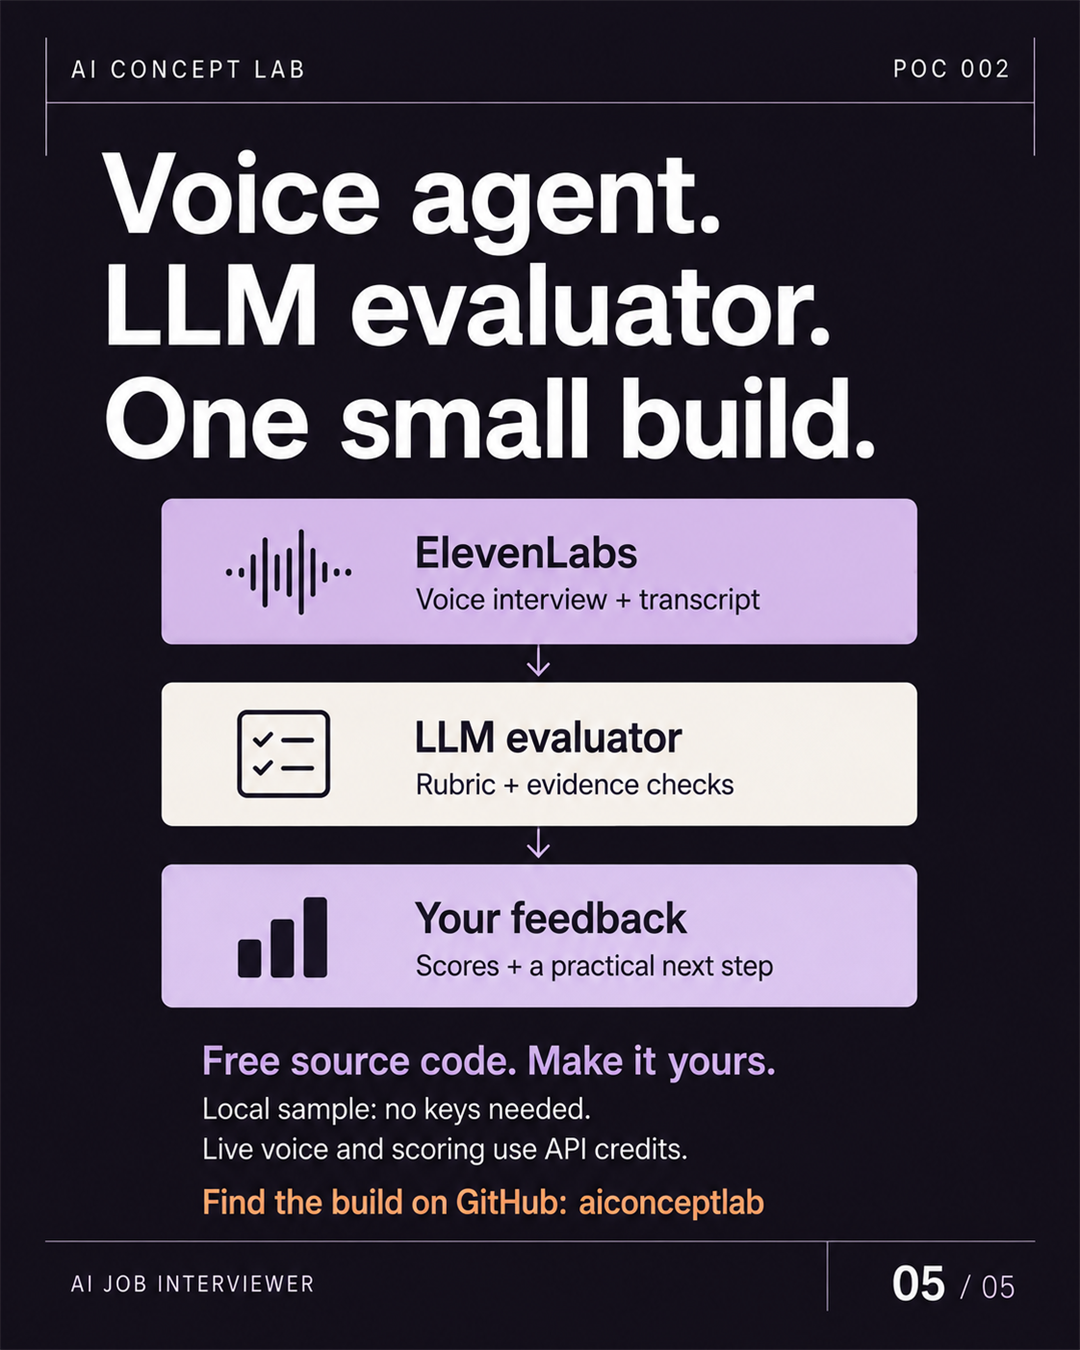
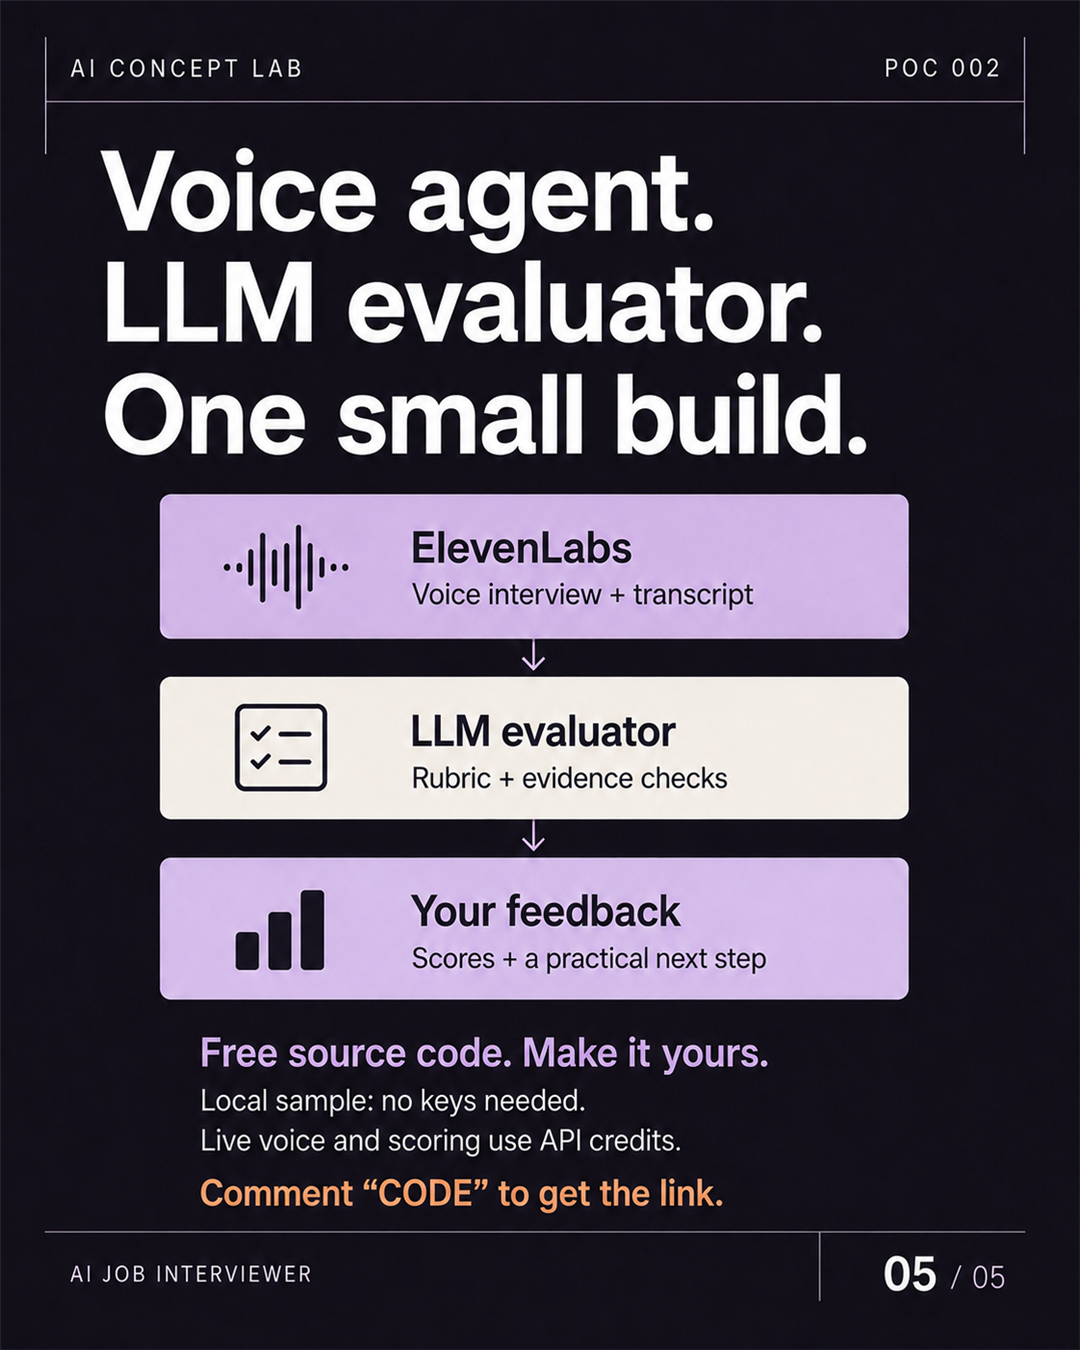
Update final carousel CTA to comment CODE

diff --git a/marketing/prompts.md b/marketing/prompts.md
@@ -20,7 +20,9 @@ Large top headline: "A score should" / "come with" / "a reason." Middle: large c
 Large top headline: "Make the next" / "answer better." Middle: large lilac feedback card with simple sparkle icon and label "ONE THING TO IMPROVE". Main card text: "Explain how you would apply" / "the lesson next time." Below an offset cream card labelled "FOLLOW-UP QUESTION" with text "What would you do before" / "the next planning meeting?" Bottom supporting copy: "Refine your answer." / "Practise again. Download the feedback." Small apricot note: "Practice feedback, not a hiring verdict." Footer "04 / 05". Same editorial scale and visual depth as reference knowledge slide.
 
 ### 05-build
-Large top headline: "Voice agent." / "LLM evaluator." / "One small build." Middle a clean vertical stack of three wide UI cards connected by short thin downward arrows. Card1 dark lilac: "ElevenLabs" / "Voice interview + transcript". Card2 cream with dark text: "LLM evaluator" / "Rubric + evidence checks". Card3 lilac: "Your feedback" / "Scores + a practical next step". Bottom medium text: "Free source code. Make it yours." Small secondary copy: "Local sample: no keys needed." / "Live voice and scoring use API credits." CTA in apricot: "Find the build on GitHub: aiconceptlab". Footer "05 / 05". No other brands/logos. No QR code. Stay legible, fit all content with generous footer space.
+Large top headline: "Voice agent." / "LLM evaluator." / "One small build." Middle a clean vertical stack of three wide UI cards connected by short thin downward arrows. Card1 dark lilac: "ElevenLabs" / "Voice interview + transcript". Card2 cream with dark text: "LLM evaluator" / "Rubric + evidence checks". Card3 lilac: "Your feedback" / "Scores + a practical next step". Bottom medium text: "Free source code. Make it yours." Small secondary copy: "Local sample: no keys needed." / "Live voice and scoring use API credits." CTA in apricot: "Comment “CODE” to get the link.". Footer "05 / 05". No other brands/logos. No QR code. Stay legible, fit all content with generous footer space.
 
 ## Revisions
 Slides 02–05 were regenerated using the new cover alone as the canvas/style reference, preserving its 1122 × 1402 proportions. Slide 03 was then edited to place the quote card below the scorecard so all four ratings remain visible. Final text and ratings were checked visually.
+
+Slide 05 CTA revision: Built-in image generation edit. Change only the bottom apricot CTA to: Comment “CODE” to get the link. Preserve all other text, layout, typography, colors and icons. Export at 1080 × 1350. Visually checked after editing.
